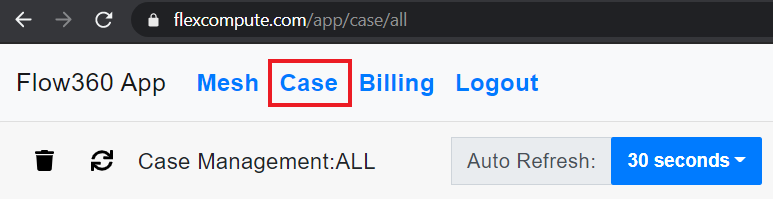
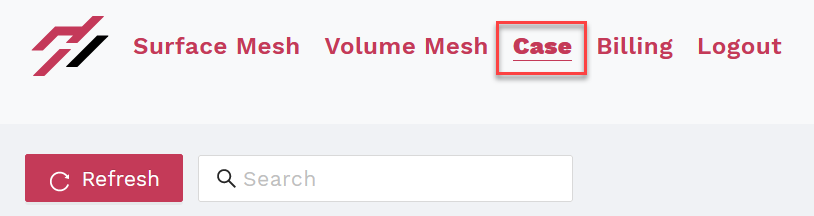
update webUI quickstart screenshots (#38)
* updateQuickStart-OM6-WebUI
Update gitignore
remove _build folder
Update .gitignore
Update om6_wing_webUI.rst
Update the Cp plot

* QuickStart-OM6-WebUI three figures were updated

* removed scale on full width image

diff --git a/docs/source/examples/om6_wing_webUI.rst b/docs/source/examples/om6_wing_webUI.rst
@@ -25,28 +25,45 @@ The mesh used for this case contains 113K nodes and 663K tetrahedrons, and the f
 Get CFD results in two simple steps
 ===================================
 
-After you `sign in <https://client.flexcompute.com/app/login>`_, visit https://client.flexcompute.com/app/mesh. 
+After you `sign in <https://client.flexcompute.com/app/login>`_, visit https://client.flexcompute.com/app/volumemeshes. 
 
-**Step 1. Upload the Mesh File:**
+**Step 1. Upload the Volume Mesh File:**
 
-To upload a mesh file, under the Mesh tab click on Upload Mesh File icon as displayed below:
+To upload a volumetric mesh file, under the **Volume Mesh** tab click on **Upload** icon as displayed below:
 
 .. image:: figures_OM6_Tutorial/UploadMesh.png
+   :scale: 60%
    :align: center
 
-This will open a window.  You need to upload two files here.  The first is the mesh.  Download an example mesh of  M6 Wing `here <https://simcloud-public-1.s3.amazonaws.com/om6/wing_tetra.1.lb8.ugrid>`_.  The second is the mesh configure json.  Download one `here <https://simcloud-public-1.s3.amazonaws.com/om6/Flow360Mesh.json?content_disposition=attachment>`_.  When uploading the mesh, be sure to set the Endianness to 'little endian' for this tutorial.  More information on endianness can be found `here <https://en.wikipedia.org/wiki/Endianness>`_.  (**Note**: Mesh Name and Tags are optional.)  Then click submit to upload and process your mesh. You can see the status of the mesh under the **Status** tab.
+This will open a window as shown in the next figure.  You need to upload two files here.  The first is the volume mesh.  Download an example mesh of  M6 Wing `here <https://simcloud-public-1.s3.amazonaws.com/om6/wing_tetra.1.lb8.ugrid>`_.  The second is the mesh configuration json.  Download one `here <https://simcloud-public-1.s3.amazonaws.com/om6/Flow360Mesh.json?content_disposition=attachment>`_.  When uploading the mesh, be sure to set the Endianness to 'little endian' for this tutorial.  More information on endianness can be found `here <https://en.wikipedia.org/wiki/Endianness>`_.  (**Note**: Mesh Name and Tags are optional. For Release History, the latest solver version will be used here by default.)  Then click submit to upload and process your mesh. You can see the status of the mesh under the **Status** tab.
+
+.. image:: figures_OM6_Tutorial/UploadMeshJsonFile.png
+   :scale: 60%
+   :align: center
 
 **Step 2. Launch a CFD Case:**
 
-You do not have to wait for your mesh to be processed. Once your mesh is uploaded you can start the case submission process. To start a new case, click on the airplane icon under the **Actions** tab.
+You do not have to wait for your mesh to be processed. Once your mesh is uploaded you can start the case submission process. To start a new case, click on the airplane icon under the **Actions** tab as shown below.
 
 .. image:: figures_OM6_Tutorial/NewCase.png
-   :scale: 70%
+   :scale: 60%
    :align: center
 
-Once you click the airplane icon, another window will pop up to give you an option to choose a corresponding `Flow360.json <https://simcloud-public-1.s3.amazonaws.com/om6/Flow360.json?content_disposition=attachment>`_ configuration file for your case. A full dictionary of configuration parameters for the JSON input file can be found :ref:`here <Flow360json>`.  You may also provide a Case Name and Tags. Hit Submit to run your case.  Once the case is submitted, you can check the case status by clicking the **Case** tab.
+Once you click the airplane icon, the webpage will re-direct you to an interactive interface as shown below, to either generate a case configuration json online or upload a pre-configured json file.  
+
+.. image:: figures_OM6_Tutorial/StartNewCase.png
+   :align: center
+
+Please use this `Flow360.json <https://simcloud-public-1.s3.amazonaws.com/om6/Flow360.json?content_disposition=attachment>`_ file for the current case, and upload it through the window as displayed below. 
+
+.. image:: figures_OM6_Tutorial/UploadCaseJsonFile.png
+   :scale: 60%
+   :align: center
+
+A full dictionary of configuration parameters for the JSON input file can be found :ref:`here <Flow360json>`.  You may also provide a Case Name and Tags to track your case later on. Hit **Submit** to run your case.  Once the case is submitted, you can check the case status by clicking the **Case** tab.
 
 .. image:: figures_OM6_Tutorial/CaseStatus.png
+   :scale: 60%
    :align: center
 
 .. raw:: html
@@ -70,6 +87,7 @@ Visualizing the Results:
 While your case is running, or after that, you can visualize the Residuals and Forces plot by clicking on your case name and viewing them under the **Convergence** and **Forces** tabs, respectively.
 
 .. image:: figures_OM6_Tutorial/ConvergenceTab.png
+   :scale: 60%
    :align: center
 
 For example, the Forces plots for this case are:
@@ -86,6 +104,7 @@ For example, the Forces plots for this case are:
 Once your case has completed running, you can also visualize the contour plots of the results under the **Visualization** tab.  Currently, contour plots for Coefficient of Pressure (C\ :sub:`p`\), Coefficient of Skin Friction (C\ :sub:`f`\), Y+, and C\ :sub:`f`\  with streamlines are provided.
 
 .. image:: figures_OM6_Tutorial/VisResults.png
+   :scale: 70%
    :align: center
 
 Downloading the Results:
@@ -94,6 +113,7 @@ Downloading the Results:
 Once your case has finished running, you can download the results (Surfaces, Volume and Log) by clicking the download arrow under the **Actions** tab.
 
 .. image:: figures_OM6_Tutorial/DownloadResults.png
+   :scale: 70%
    :align: center
 
 The Volume and Surface data can be post-processed in either ParaView or Tecplot, based on your selection of outputFormat in the Flow360.json file. And the Log file (solver.out) can be used to view the solver time and other run details.
@@ -104,8 +124,11 @@ Fork a Case:
 You can also restart a case, to continue from the last point of the previous run, by clicking the **Fork a Case** icon under the **Actions** tab and change the parameters of your Flow360.json configuration file according to your needs or upload an entirely new configuration file.
 
 .. image:: figures_OM6_Tutorial/ForkCase1.png
+   :scale: 70%
+   :align: center
 .. image:: figures_OM6_Tutorial/ForkCase2.png
-   :scale: 90%
+   :scale: 60%
+   :align: center
 
 Deleting a Mesh/Case:
 ^^^^^^^^^^^^^^^^^^^^^
@@ -113,4 +136,5 @@ Deleting a Mesh/Case:
 You can delete a mesh/case by clicking on the trash can icon under the **Actions** tab. (*Caution*: You will not be able to recover your deleted case or mesh files including its results after your deletion.)
 
 .. image:: figures_OM6_Tutorial/DeleteMeshCase_1.png
+   :scale: 70%
    :align: center
